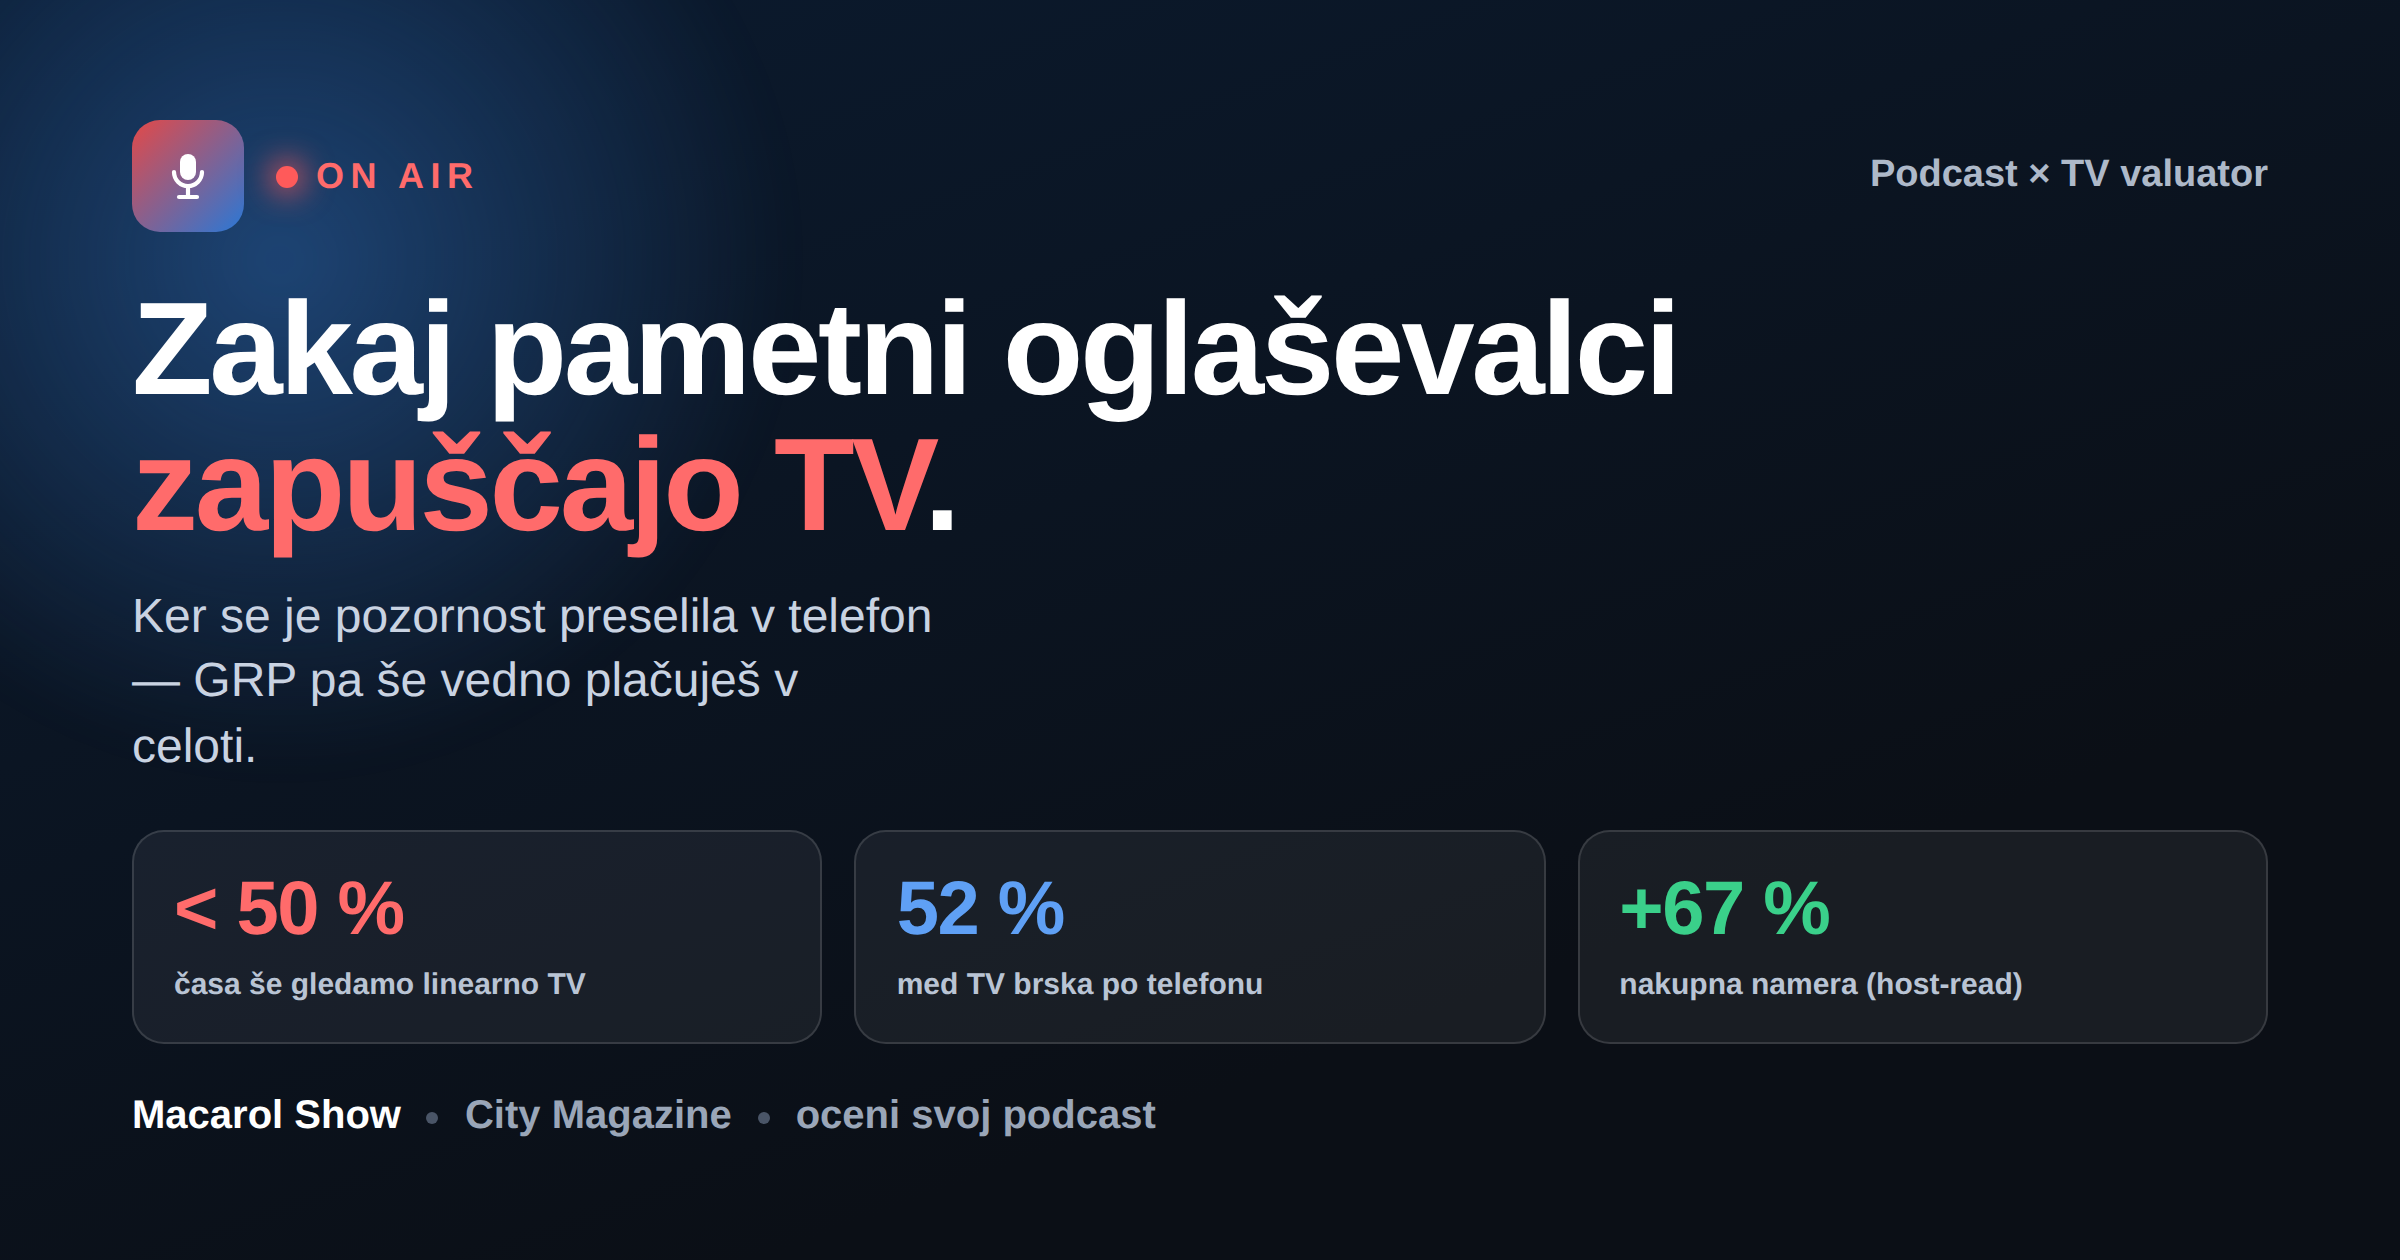
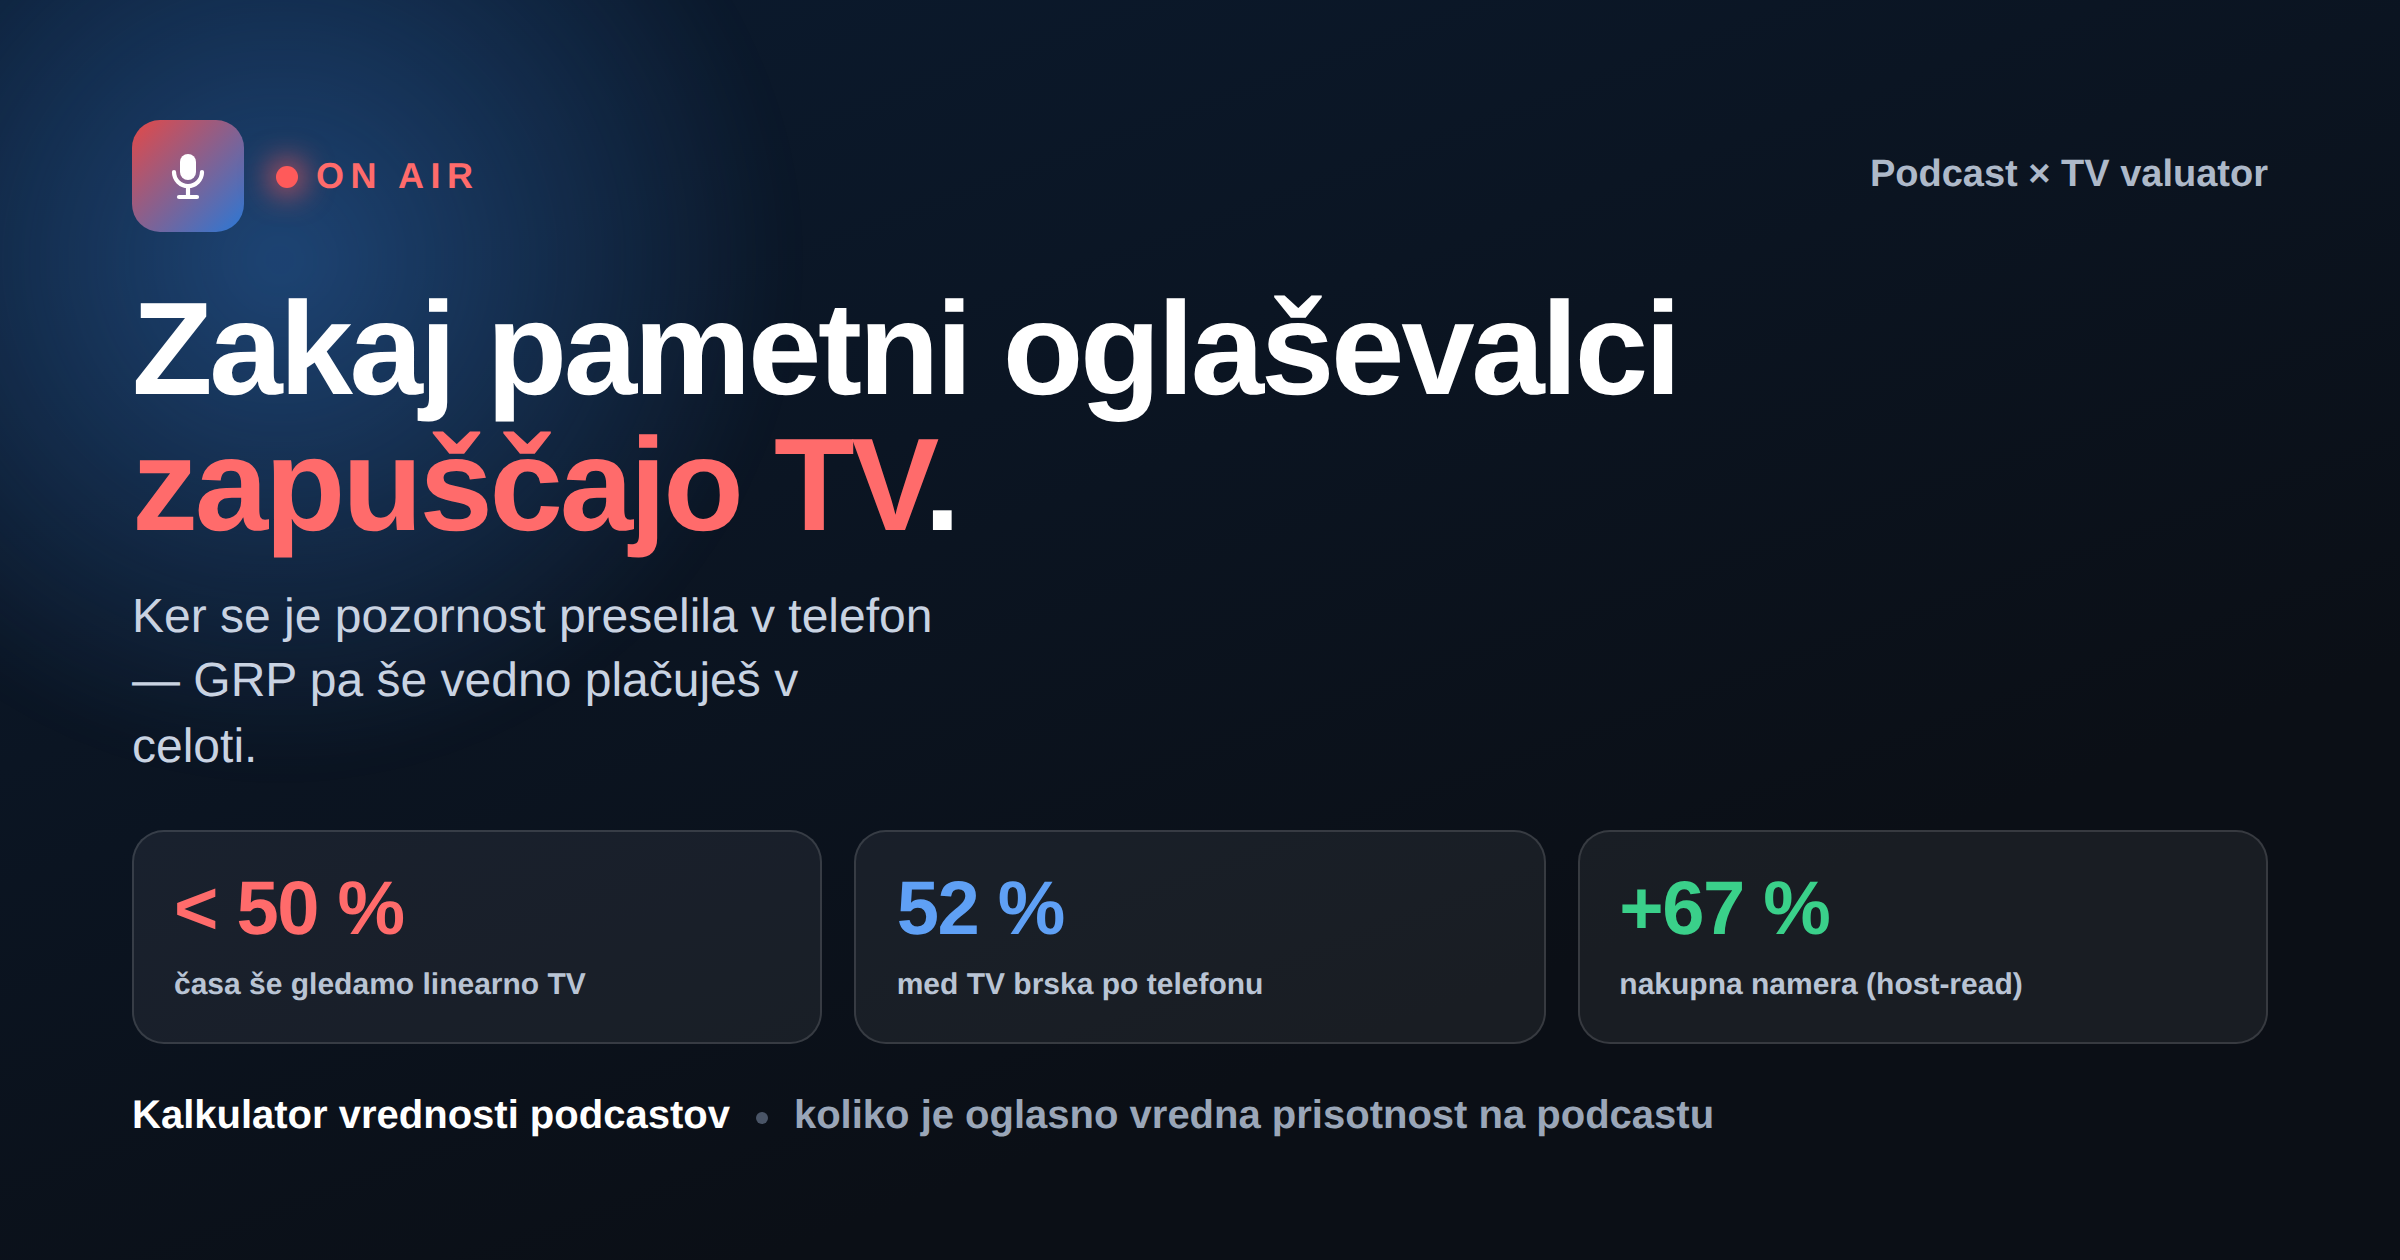
OG cover: footer 'Kalkulator vrednosti podcastov' (brez Macarol Show/City Magazine)
Regeneriran assets/og-cover.png in posodobljen assets/share-tv.html (footer
izbrane variante A usklajen z novim poimenovanjem strani).

Claude-Session: https://claude.ai/code/session_01DFQCwydQcWfLKzkBoLtrAo

Changed region(s): [[0.0625, 0.8667, 0.7188, 0.8976]]

diff --git a/assets/share-tv.html b/assets/share-tv.html
@@ -65,7 +65,7 @@ h1 .em{color:#ff6b6b}
   <div class="top"><span class="mic"><svg width="32" height="32" viewBox="0 0 32 32"><rect x="12" y="5" width="8" height="13" rx="4" fill="#fff"/><path d="M9 14a7 7 0 0 0 14 0" fill="none" stroke="#fff" stroke-width="2.1" stroke-linecap="round"/><line x1="16" y1="21" x2="16" y2="25.5" stroke="#fff" stroke-width="2.1" stroke-linecap="round"/><line x1="11.5" y1="26.5" x2="20.5" y2="26.5" stroke="#fff" stroke-width="2.1" stroke-linecap="round"/></svg></span><span class="onair"><span class="dot"></span>On air</span><span class="kicker">Podcast × TV valuator</span></div>
   <div><h1>Zakaj pametni oglaševalci<br><span class="em">zapuščajo TV</span>.</h1><div class="sub">Ker se je pozornost preselila v telefon — GRP pa še vedno plačuješ v celoti.</div></div>
   <div class="stats"><div class="stat a"><div class="n">&lt; 50 %</div><div class="l">časa še gledamo linearno TV</div></div><div class="stat b"><div class="n">52 %</div><div class="l">med TV brska po telefonu</div></div><div class="stat c"><div class="n">+67 %</div><div class="l">nakupna namera (host-read)</div></div></div>
-  <div class="foot"><span class="brandname">Macarol Show</span><span class="sep"></span>City Magazine<span class="sep"></span>oceni svoj podcast</div>
+  <div class="foot"><span class="brandname">Kalkulator vrednosti podcastov</span><span class="sep"></span>koliko je oglasno vredna prisotnost na podcastu</div>
 </div></div>
 
 <!-- B: SAVINGS -->
